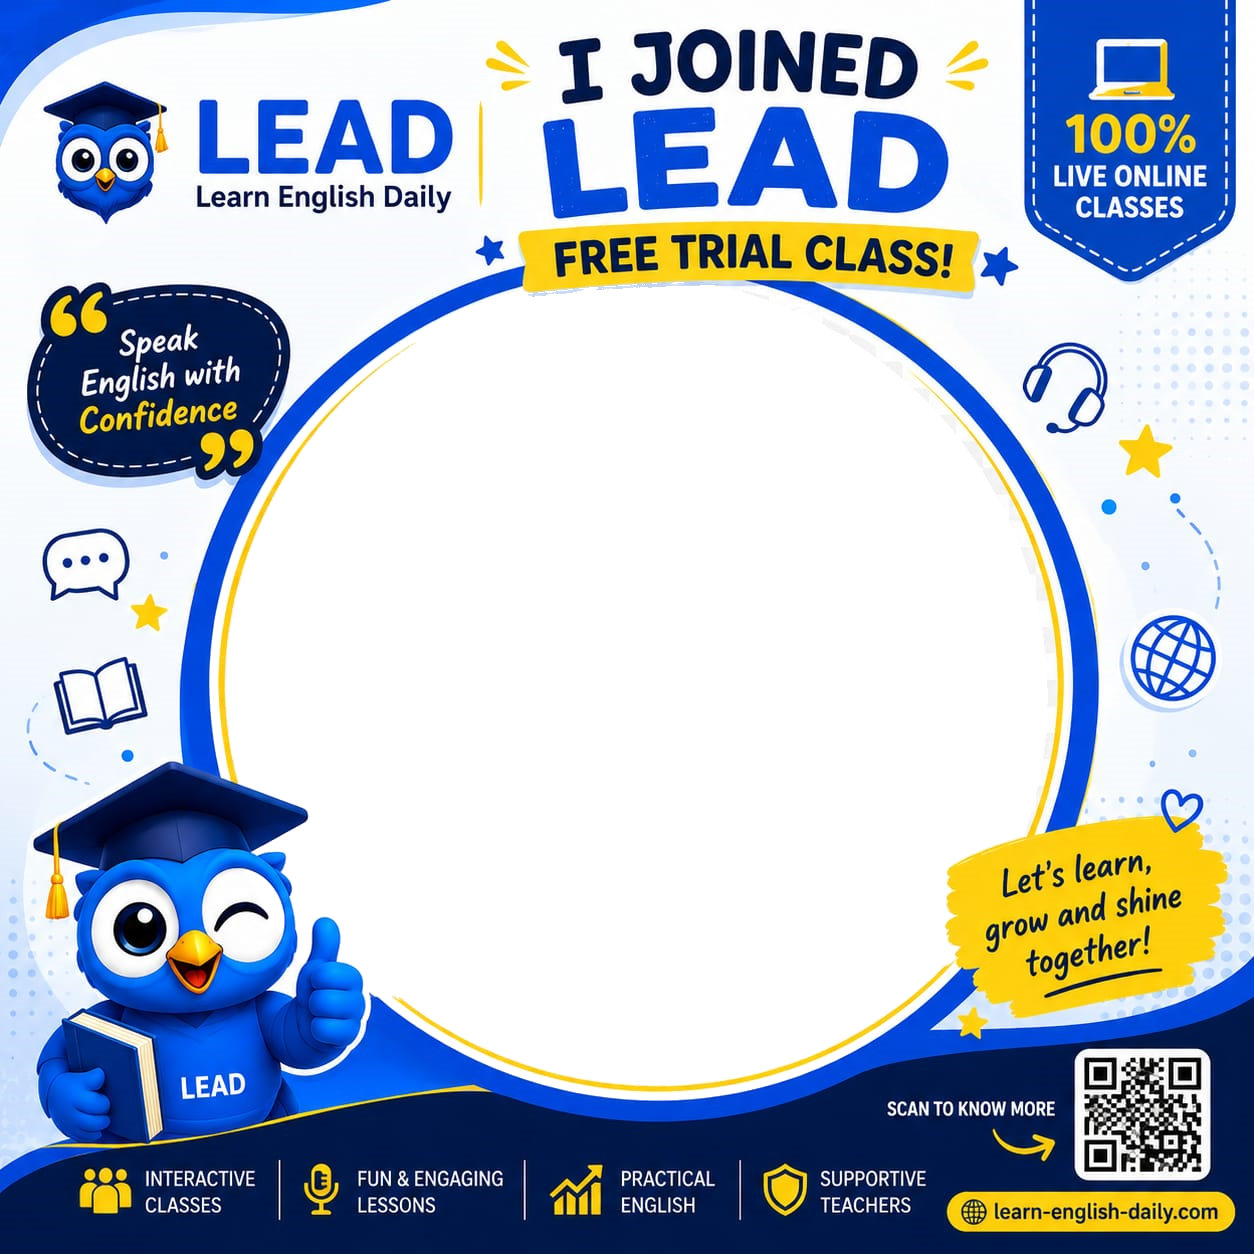
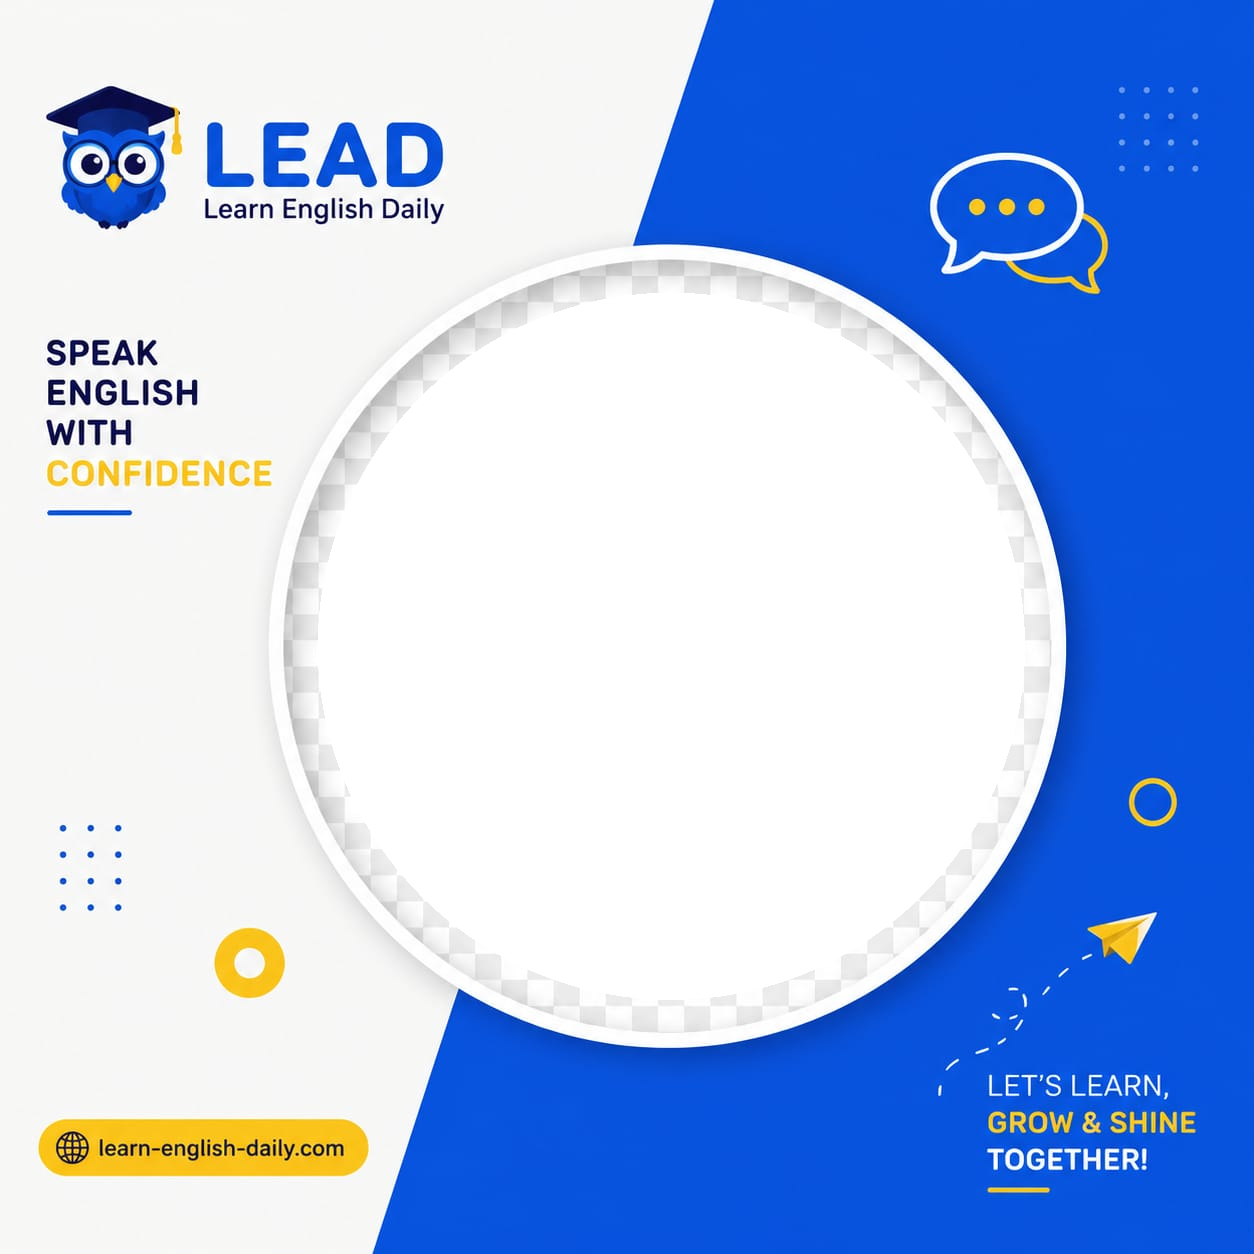
Use branded twibbon frame with large photo circle

diff --git a/src/app/trial-twibbon/twibbon-camera.tsx b/src/app/trial-twibbon/twibbon-camera.tsx
@@ -5,7 +5,7 @@ import { Camera, Download, RefreshCcw, RotateCcw, ShieldCheck } from "lucide-rea
 import { Button } from "@/components/ui/button";
 import { Card } from "@/components/ui/card";
 
-const frameSrc = "/images/trial-twibbon-simple-frame.svg";
+const frameSrc = "/images/trial-twibbon-frame.png";
 const outputWidth = 1080;
 const outputHeight = 1080;
 
